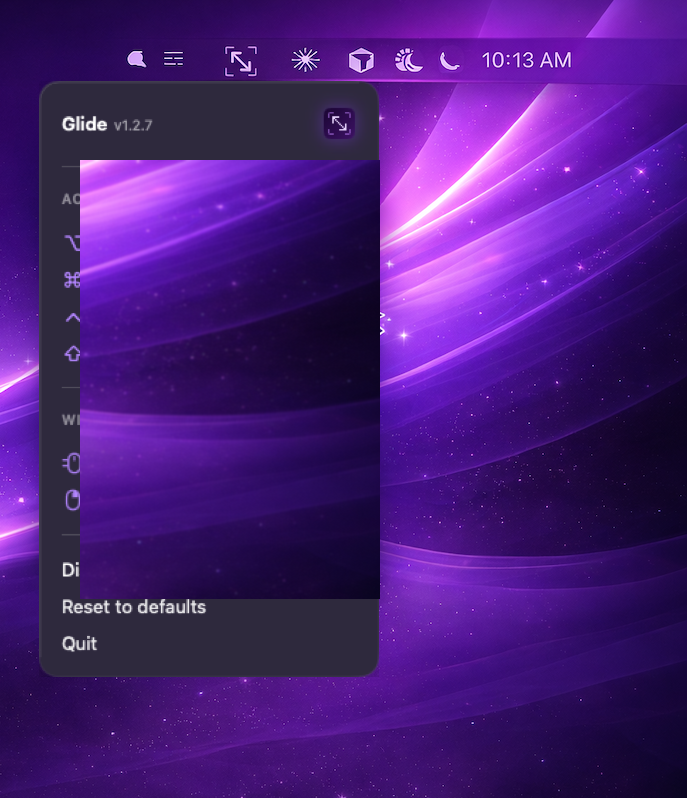
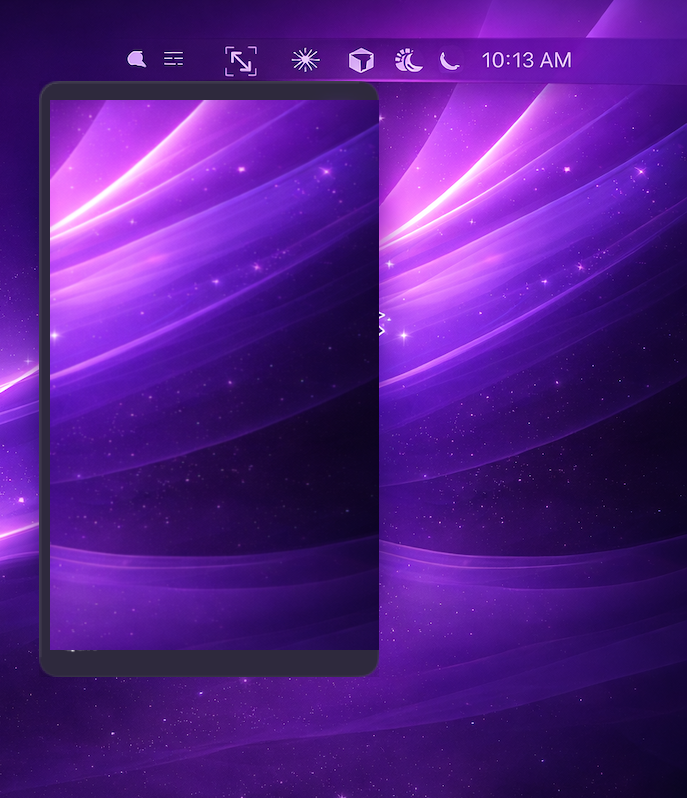
Fix menubar compositing: fill full card bounds before pasting dropdown
The rendered dropdown PNG is narrower than the captured menu card in the
desktop screenshot. Fill the full card rectangle from screenshot-layout.json
before compositing so old v1.2.7 menu content no longer bleeds through.

Changed region(s): [[0.0611, 0.1203, 0.5502, 0.812]]

diff --git a/scripts/prepare-menubar-base.py b/scripts/prepare-menubar-base.py
@@ -1,0 +1,43 @@
+#!/usr/bin/env python3
+"""Create site/menubar-base.png by removing the menu card from a desktop capture."""
+from __future__ import annotations
+
+import json
+from pathlib import Path
+
+from PIL import Image, ImageFilter
+
+ROOT = Path(__file__).resolve().parents[1]
+LAYOUT = ROOT / "scripts" / "screenshot-layout.json"
+DEFAULT_SOURCE = ROOT / "site/menubar-source.png"
+
+
+def prepare_menubar_base(source: Path, output: Path) -> None:
+    layout = json.loads(LAYOUT.read_text(encoding="utf-8"))
+    card = layout["menubar"]["card"]
+    x = int(card["x"])
+    y = int(card["y"])
+    w = int(card["width"])
+    h = int(card["height"])
+
+    image = Image.open(source).convert("RGBA")
+    wallpaper = image.crop((400, y, image.width, y + h))
+    fill = wallpaper.resize((w, h), Image.Resampling.LANCZOS).filter(ImageFilter.GaussianBlur(radius=0.8))
+    image.paste(fill, (x, y))
+    output.parent.mkdir(parents=True, exist_ok=True)
+    image.save(output)
+    print(f"Wrote {output}")
+
+
+def main() -> None:
+    source = DEFAULT_SOURCE if DEFAULT_SOURCE.exists() else ROOT / "site/menubar.png"
+    if not source.exists():
+        raise SystemExit(
+            "No menubar source image found. Save a desktop capture as site/menubar-source.png "
+            "before regenerating site/menubar-base.png."
+        )
+    prepare_menubar_base(source, ROOT / "site/menubar-base.png")
+
+
+if __name__ == "__main__":
+    main()

diff --git a/scripts/patch-screenshot-version.py b/scripts/patch-screenshot-version.py
@@ -102,16 +102,22 @@ def composite_menubar(dropdown: Path, output: Path) -> None:
     layout = json.loads(LAYOUT.read_text(encoding="utf-8"))
     menubar = layout["menubar"]
     base = ROOT / menubar["base"]
-    x = int(menubar["dropdown"]["x"])
-    y = int(menubar["dropdown"]["y"])
+    card = menubar["card"]
+    card_x = int(card["x"])
+    card_y = int(card["y"])
+    card_w = int(card["width"])
+    card_h = int(card["height"])
+    drop_x = int(menubar["dropdown"]["x"])
+    drop_y = int(menubar["dropdown"]["y"])
+
     overlay = Image.open(dropdown).convert("RGBA")
     canvas = Image.open(base).convert("RGBA")
-
-    # Opaque backing so any transparency in the PNG does not reveal the old menu in base.
     card_color = overlay.getpixel((8, 32))[:3]
-    backing = Image.new("RGBA", overlay.size, card_color + (255,))
-    canvas.paste(backing, (x, y))
-    canvas.paste(overlay, (x, y), overlay)
+
+    # Cover the full captured menu card (wider/taller than the rendered dropdown PNG).
+    card_fill = Image.new("RGBA", (card_w, card_h), card_color + (255,))
+    canvas.paste(card_fill, (card_x, card_y))
+    canvas.paste(overlay, (drop_x, drop_y), overlay)
     canvas.save(output)
     print(f"Composited {output}")
 

diff --git a/RELEASE.md b/RELEASE.md
@@ -141,7 +141,8 @@ release **after** the release zip is published — otherwise visitors get a 404.
 
 If the menu dropdown moves or resizes, update `scripts/screenshot-layout.json` (paste
 coordinates) and replace `site/menubar-base.png` only when the desktop/menubar background
-changes.
+changes. The layout includes a `card` rectangle (full captured menu bounds) that is filled
+before compositing the narrower rendered dropdown PNG on top.
 
 ---
 
